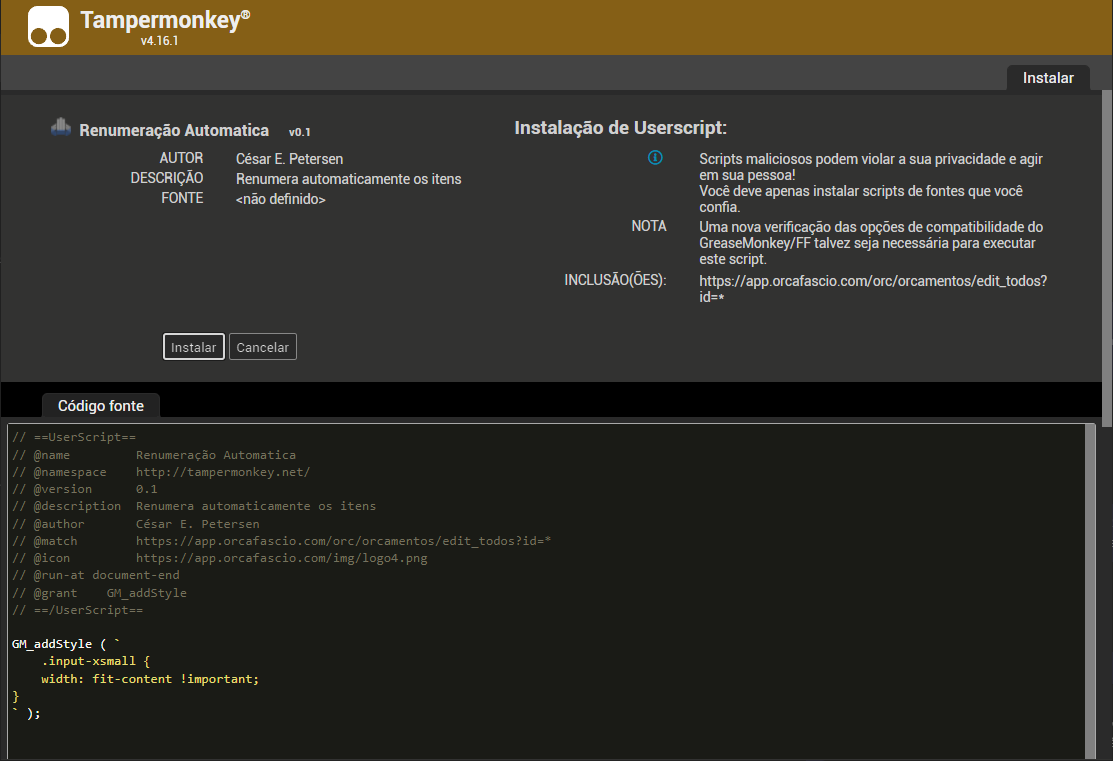
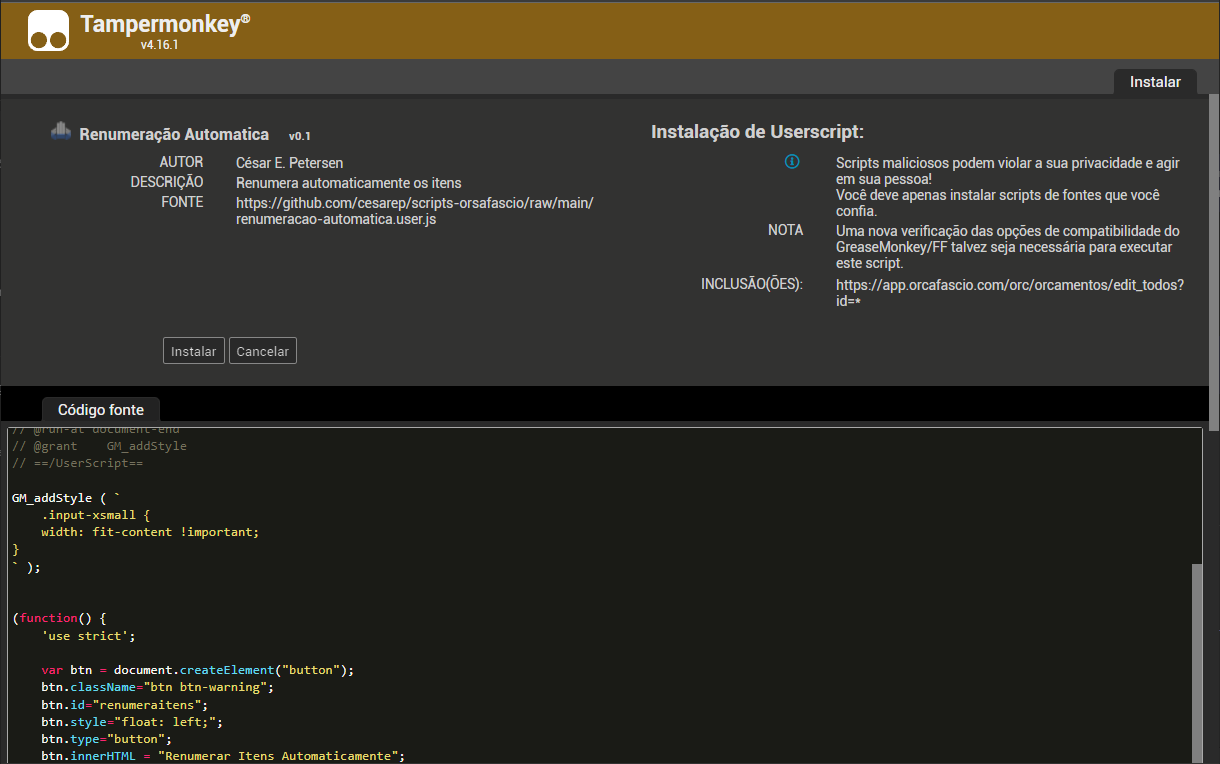
Atualização Documentação

diff --git a/README.md b/README.md
@@ -4,13 +4,7 @@ Conjunto de _userscripts_ para facilitar utilização do Orçafascio.
 ## Instalação
 1. Instalar o [Tampermonkey](https://www.tampermonkey.net/) ou outro gerenciador de userscripts no navegador.
 
-1. Acessar o painel de opções:
-
-    ![Painel de opções](imgs/painel-opcoes.png)
-
-1. Na aba de Utilitários, selecionar a opção para importar o arquivo:
-
-    ![Aba de Utilitarios](imgs/aba-utilitarios.png)
+1. Clicar nos links dos [scripts disponíveis](#scripts-disponíveis).
 
 1. Confirmar a instalação do script:
 
@@ -18,37 +12,37 @@ Conjunto de _userscripts_ para facilitar utilização do Orçafascio.
 
 ## Scripts disponíveis
 
-- Alteração de BDI em massa:
+- [Alteração de BDI em massa](https://github.com/cesarep/scripts-orsafascio/raw/main/alterar-BDI-massa.user.js)
     
     Adiciona botão para alterar vários BDIs diferenciados ao mesmo tempo.
 
     ![Alteração de BDI](imgs/scripts/alteracao-bdi.png)
 
-- Filtro de Exclusão em massa:
+- [Filtro de Exclusão em massa](https://github.com/cesarep/scripts-orsafascio/raw/main/filtro-exclusao-massa.user.js)
 
     Adiciona campos para filtragem por código e descrição de Composições e Insumos na exclusão em massa.
 
     ![Exclusão em massa](imgs/scripts/filtro-exclusao.png)
 
-- Renumeração Automatica:
+- [Renumeração Automatica](https://github.com/cesarep/scripts-orsafascio/raw/main/renumeracao-automatica.user.js)
 
     Adiciona botão na página para renumerar automaticamente todos os itens de orçamento. Itens alterados ficam amarelos e exibem mensagem com valor antigo ao passar o mouse por cima.
 
     ![Renumeração Automática](imgs/scripts/renumeracao-automatica.png)
 
-- Selecionar todos os bancos:
+- [Selecionar todos os bancos](https://github.com/cesarep/scripts-orsafascio/raw/main/selecionar-todos-bancos.user.js)
 
     Adiciona opção na exportação do **relatório de composições analíticas com preço unitário** para selecionar todos os bancos exceto o próprio, gerando relatório só com as composições próprias.
 
     ![Selecionar todos os bancos](imgs/scripts/selecionar-bancos.png)
 
-- Titulos Informativos:
+- Titulos Informativos para [Orçamentos](https://github.com/cesarep/scripts-orsafascio/raw/main/titulo-informativo-orcs.user.js) e [Insumos e Composições](https://github.com/cesarep/scripts-orsafascio/raw/main/titulo-informativo-comps-ins.user.js)
 
     Modifica o titulo na aba do navegador para incluir o código e descrição dos insumos, composições e orçamentos abertos, organizando melhor as abas.
 
     ![Titulos informativos](imgs/scripts/titulos-informativos.png)
 
-- Mover pastas
+- [Mover pastas](https://github.com/cesarep/scripts-orsafascio/raw/main/mover-pastas.user.js)
 
     Adiciona botão para mover pastas inteiras nos orçamentos.
     Os botões demoram para aparecer pois precisam carregar toda a estrutura do diretório de pastas antes.
